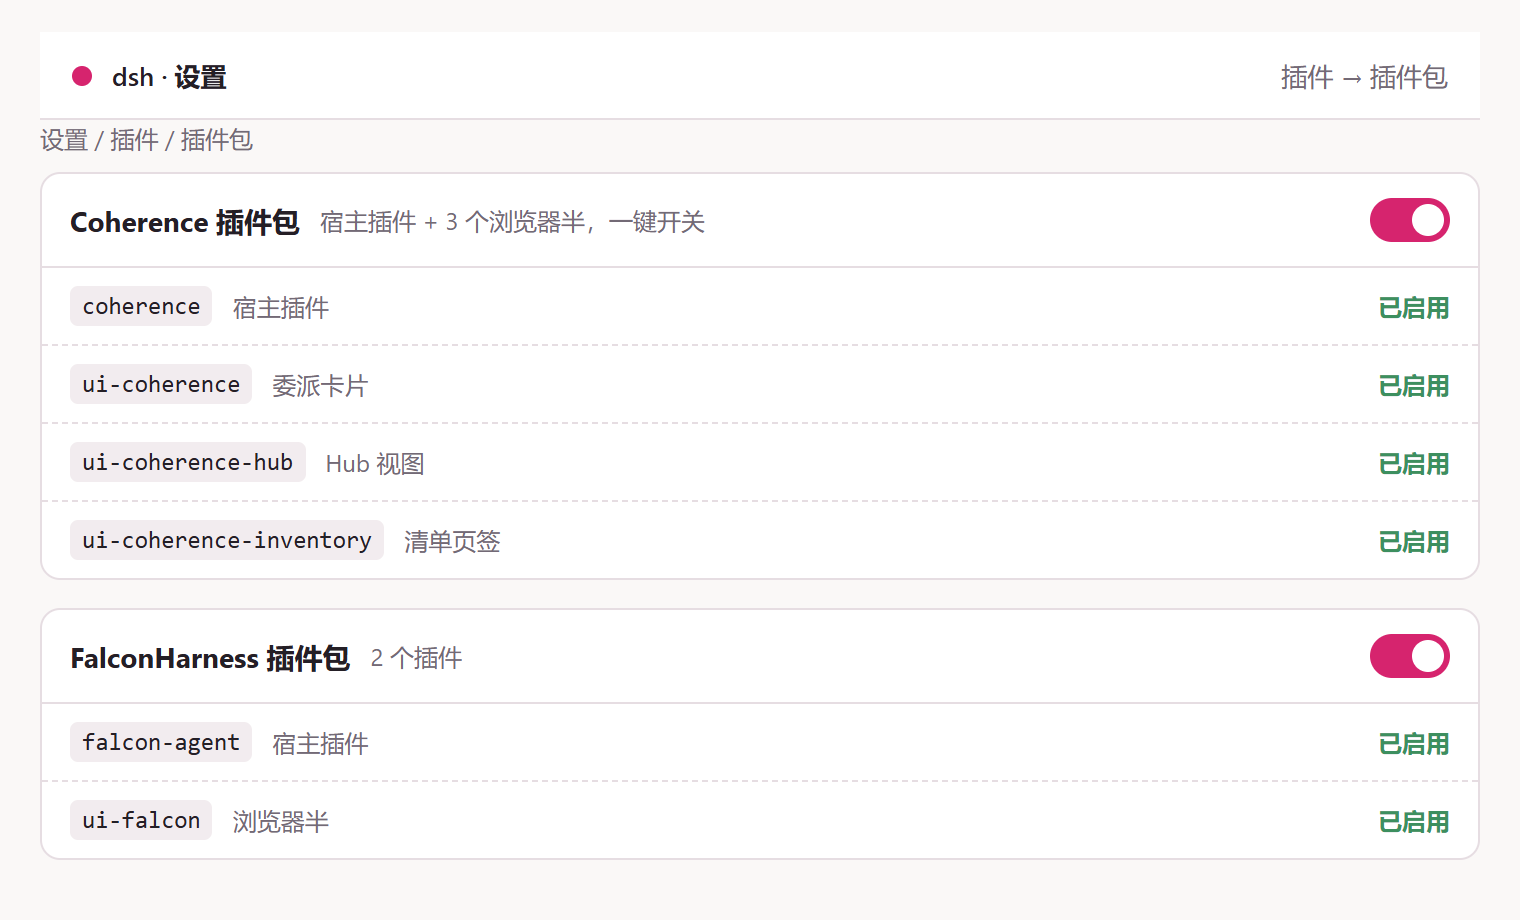
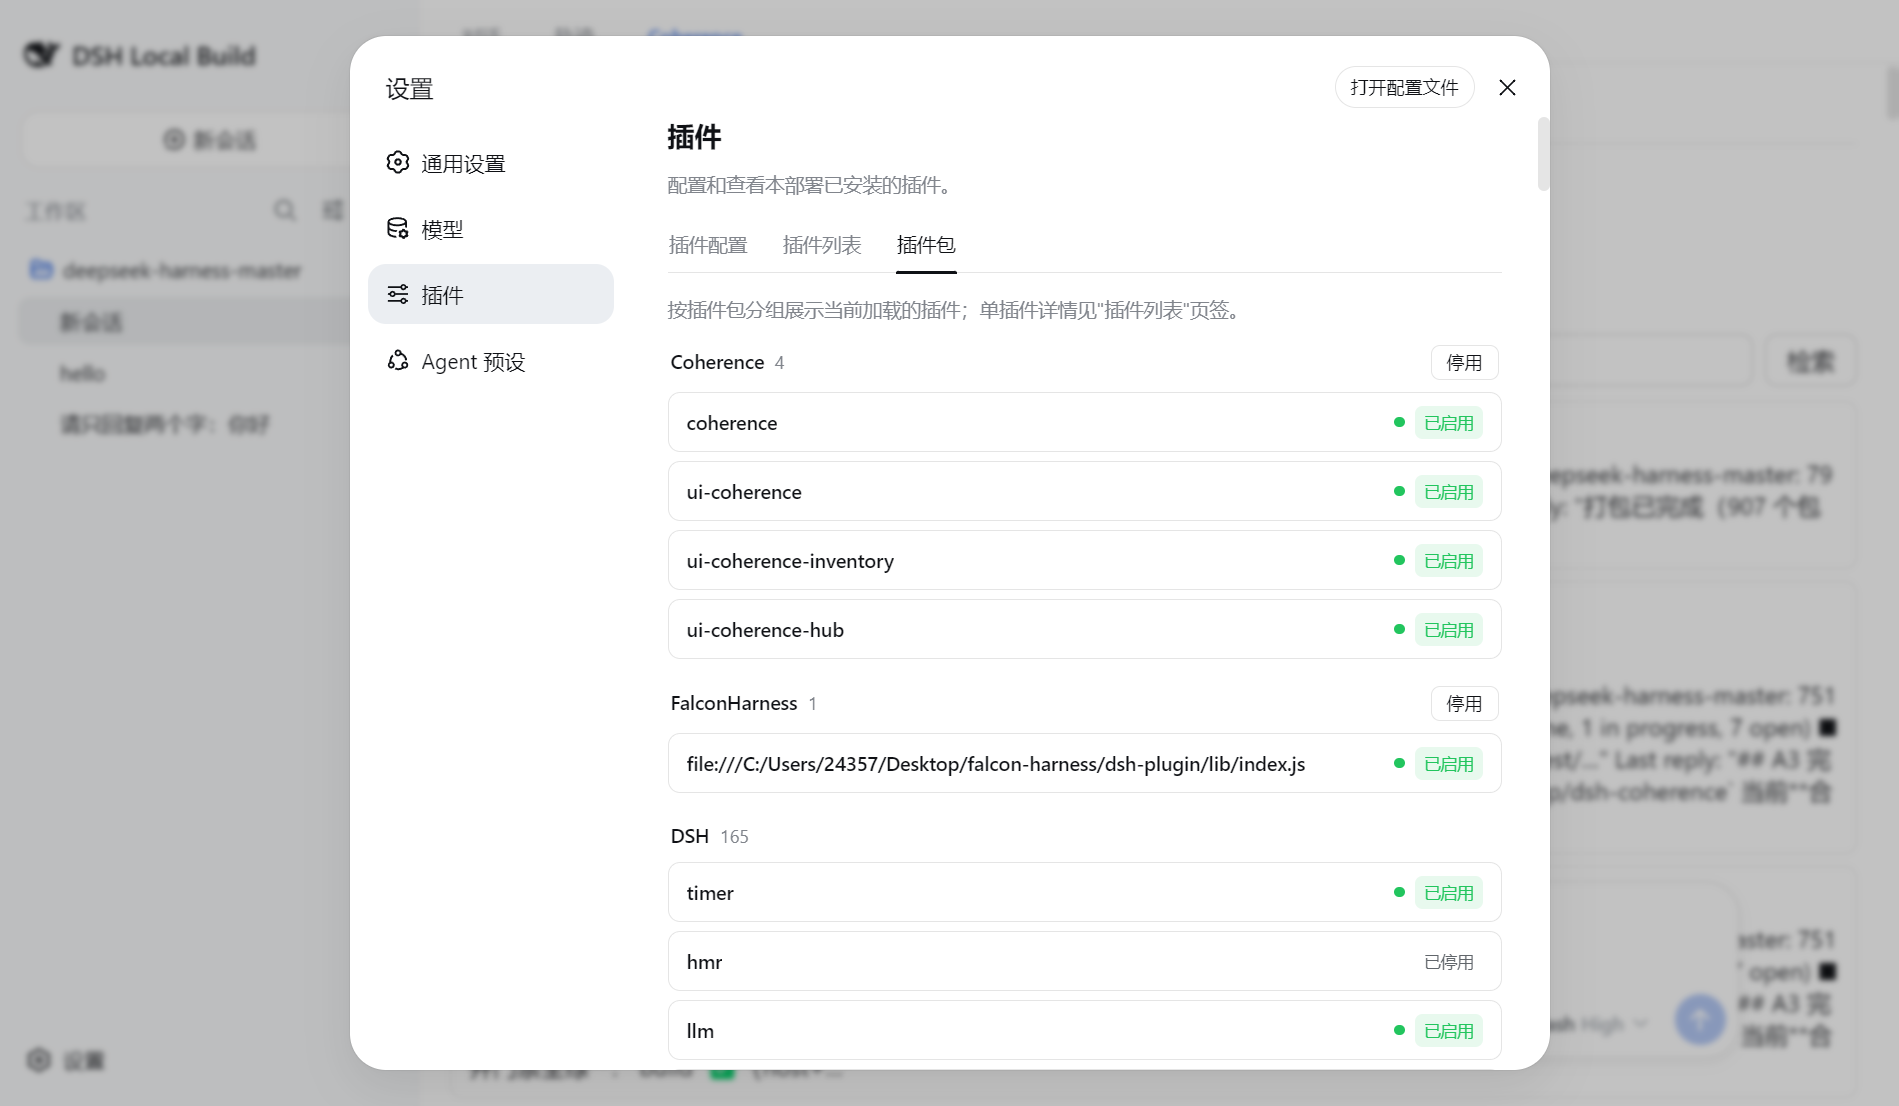
docs: replace synthetic showcase screenshots with real desktop captures

diff --git a/docs/show-your-plugins-coherence.md b/docs/show-your-plugins-coherence.md
@@ -1,6 +1,8 @@
 # Show Your Plugins! — dsh-coherence
 
-_Draft (2026-08-31). Bilingual post for the dsh plugin showcase. Companion screenshots: see `docs/screenshots/` (C1)._
+_Final draft (2026-09-01). Bilingual post for the dsh plugin showcase
+("Show Your Plugins!" category). Companion screenshots: `docs/screenshots/`
+(C1) — real captures from the packaged desktop._
 
 ---
 
@@ -17,13 +19,23 @@ What it brings:
 3. **Codebase map** — persisted Explore outcomes (folders, files, symbols), so a later session answers structure questions from the map instead of re-exploring.
 4. **Worklog** — one shared direction every agent reads and updates, instead of duplicated prompts.
 
-External agents reach it over an in-process **MCP server** (streamable-http) plus a human-readable **file mirror**; the web UI reaches it through a read-only **Typert Remote gateway** that feeds the **Coherence Hub** tab.
+External agents reach it over an in-process **MCP server** (streamable-http) plus a human-readable **file mirror**; the web UI reaches it through a read-only **Typert Remote gateway** that feeds the **Coherence Hub** tab — the hub shows live ingest, delegation lineage, and the memory layers right inside the conversation:
 
-Like Minecraft resource packs or mods, coherence ships as a **plugin pack**: one toggleable family — the host plugin plus its three browser halves — that you switch on and off as a unit from the Web Plugins settings.
+![Coherence Hub — external-agent ingest and delegation lineage](https://raw.githubusercontent.com/Shonean/dsh-coherence/master/docs/screenshots/coherence-hub.png)
+
+![Coherence Hub — the three-layer memory with workspace shards](https://raw.githubusercontent.com/Shonean/dsh-coherence/master/docs/screenshots/coherence-memory.png)
+
+Like Minecraft resource packs or mods, coherence ships as a **plugin pack**: one toggleable family — the host plugin plus its three browser halves — that you switch on and off as a unit from the Web Plugins settings:
+
+![Plugin-pack inventory — the coherence family as one toggleable pack](https://raw.githubusercontent.com/Shonean/dsh-coherence/master/docs/screenshots/plugin-pack-inventory.png)
+
+Install (host plugin + the three browser halves, one command):
 
 ```
 dsh plugin --profile <name> add dsh-coherence
 ```
+
+Source: **https://github.com/Shonean/dsh-coherence** — npm: `dsh-coherence`, `dsh-client-ui-coherence`, `dsh-client-ui-coherence-hub`, `dsh-client-ui-coherence-inventory`. (It also ships inside the dsh desktop app, where the same pack mounts with no setup.)
 
 **Now it's your turn** — what plugin have *you* built on dsh? Reply with a one-liner, a screenshot, or a repo link. Show your plugins!
 
@@ -31,7 +43,7 @@ dsh plugin --profile <name> add dsh-coherence
 
 ## 中文
 
-> **Show Your Plugins!** —— 一个让 dsh 插件作者展示自己作品的帖子。今天出场:**dsh-coherence**。
+> **Show Your Plugins!** —— 一个让 dsh 插件作者展示自己作品的帖子。今天出场：**dsh-coherence**。
 
 **dsh-coherence** 是一个 Cordis 插件，让跨多天、多 agent 的长任务保持连贯。当一个任务做了很多天、经过很多个 agent——claude code、opencode、codex——之后，各 agent 的上下文必然各自为政：会话漂移、探索重复、方向分叉、记忆冲突。Coherence 的目的就是让它们在**同一个工作区内**协同不出问题。它不新增任何 subagent provider：它围绕 dsh 已有的 provider 管理记录与方向。
 
@@ -42,12 +54,22 @@ dsh plugin --profile <name> add dsh-coherence
 3. **代码库地图** —— 持久化的 Explore 结果（文件夹、文件、符号），后续会话直接从地图回答结构问题，不再重复探索。
 4. **工作日志** —— 一份每个 agent 都读写同一份、而不是复制提示词的共享方向。
 
-外部 agent 通过进程内 **MCP server**（streamable-http）与人类可读的**文件镜像**访问本套件；Web UI 通过只读 **Typert Remote gateway** 访问，其数据面供给 **Coherence Hub** 页签。
+外部 agent 通过进程内 **MCP server**（streamable-http）与人类可读的**文件镜像**访问本套件；Web UI 通过只读 **Typert Remote gateway** 访问，其数据面供给 **Coherence Hub** 页签——Hub 直接在会话里呈现实时摄取、委派血统与记忆分层：
 
-像 Minecraft 资源包或 Mod 一样，coherence 以**插件包**的形式发布：一个可整体开关的家族——宿主插件加它的三个浏览器半——在 Web 插件设置里一键开关。
+![Coherence Hub —— 外部 agent 摄取与委派血统](https://raw.githubusercontent.com/Shonean/dsh-coherence/master/docs/screenshots/coherence-hub.png)
+
+![Coherence Hub —— 带工作区分片的三层记忆](https://raw.githubusercontent.com/Shonean/dsh-coherence/master/docs/screenshots/coherence-memory.png)
+
+像 Minecraft 资源包或 Mod 一样，coherence 以**插件包**的形式发布：一个可整体开关的家族——宿主插件加它的三个浏览器半——在 Web 插件设置里一键开关：
+
+![插件包清单 —— coherence 家族作为一个可整体开关的插件包](https://raw.githubusercontent.com/Shonean/dsh-coherence/master/docs/screenshots/plugin-pack-inventory.png)
+
+安装（宿主插件 + 三个浏览器半，一条命令）：
 
 ```
 dsh plugin --profile <name> add dsh-coherence
 ```
+
+源码：**https://github.com/Shonean/dsh-coherence** —— npm 包：`dsh-coherence`、`dsh-client-ui-coherence`、`dsh-client-ui-coherence-hub`、`dsh-client-ui-coherence-inventory`。（dsh 桌面端也已内置同一个插件包，开箱即用。）
 
 **轮到你了** —— 你在 dsh 上做了什么插件？一句话、一张截图或一个仓库链接都可以。Show your plugins!

diff --git a/docs/screenshots/captions.md b/docs/screenshots/captions.md
@@ -1,20 +1,13 @@
-# Showcase screenshots (synthetic sandbox)
+# Showcase screenshots (real desktop captures)
 
-Three composed screenshots of the dsh-coherence UI, rendered from
-[`sandbox-demo.html`](sandbox-demo.html) — a self-contained synthetic sandbox
-with clearly fictional demo data (project "acme-sandbox"). Use them for the
-open-source showcase; they are demo content, not captures of a live session.
+Captures of the coherence suite running in the packaged dsh desktop app
+(2026-09-01): the Coherence Hub over live multi-agent data, and the
+package-grouped plugin inventory. No synthetic data, no mock — the ingest
+counts and memory records are the machine's own.
 
 | File | What it shows |
 |---|---|
-| `coherence-hub.png` | The **Coherence Hub** view — external-agent ingest cards (claude code / opencode / codex), live subagent lineage, and the three-layer memory counts. |
-| `coherence-memory.png` | The **Memory** section — workspace shard selector, keyword recall, and working / episodic / semantic rows. |
-| `plugin-pack-inventory.png` | The package-grouped **plugin inventory** tab (Web Plugins → 插件包) — the coherence family as one toggleable plugin pack. |
-
-## Re-render
-
-The HTML is the source of truth; the PNGs are derived 2× renders (made with
-the playwright `chromium` from the dev machine's playwright cache — the repo
-intentionally carries no browser dependency). To regenerate, open
-`sandbox-demo.html` in any browser and screenshot each `#view-*` section, or
-replay the same headless-chromium render used to produce them.
+| `coherence-hub.png` | The **Coherence Hub** tab inside a conversation — external-agent ingest cards (claude code / opencode / codex with live message counts and last-active), the subagent-lineage section, and the docked composer beneath the view on a brand-new session. |
+| `coherence-memory.png` | The Hub's **记忆 (memory)** section — workspace shard selector, layer tabs (全部 / 工作 / 情节 / 语义), semantic recall, and real memory records. |
+| `plugin-pack-inventory.png` | Settings → 插件 → 插件包 — the coherence family as one toggleable plugin pack (coherence + three browser halves, all enabled). |
+| `view-ring.png` | A brand-new session: the view ring (对话 / 轨迹 / Coherence) reachable from the landing state, hero untouched. |
